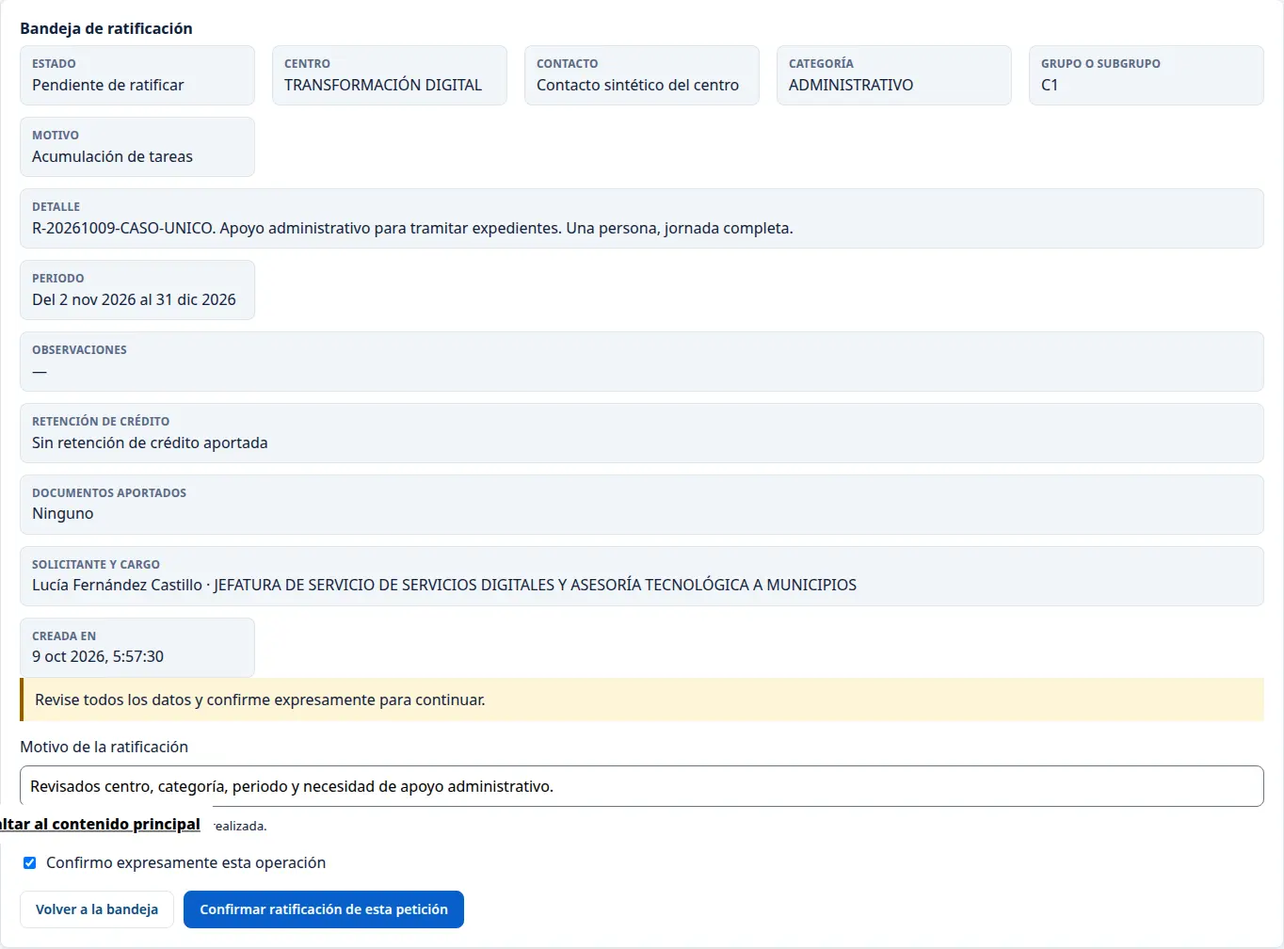
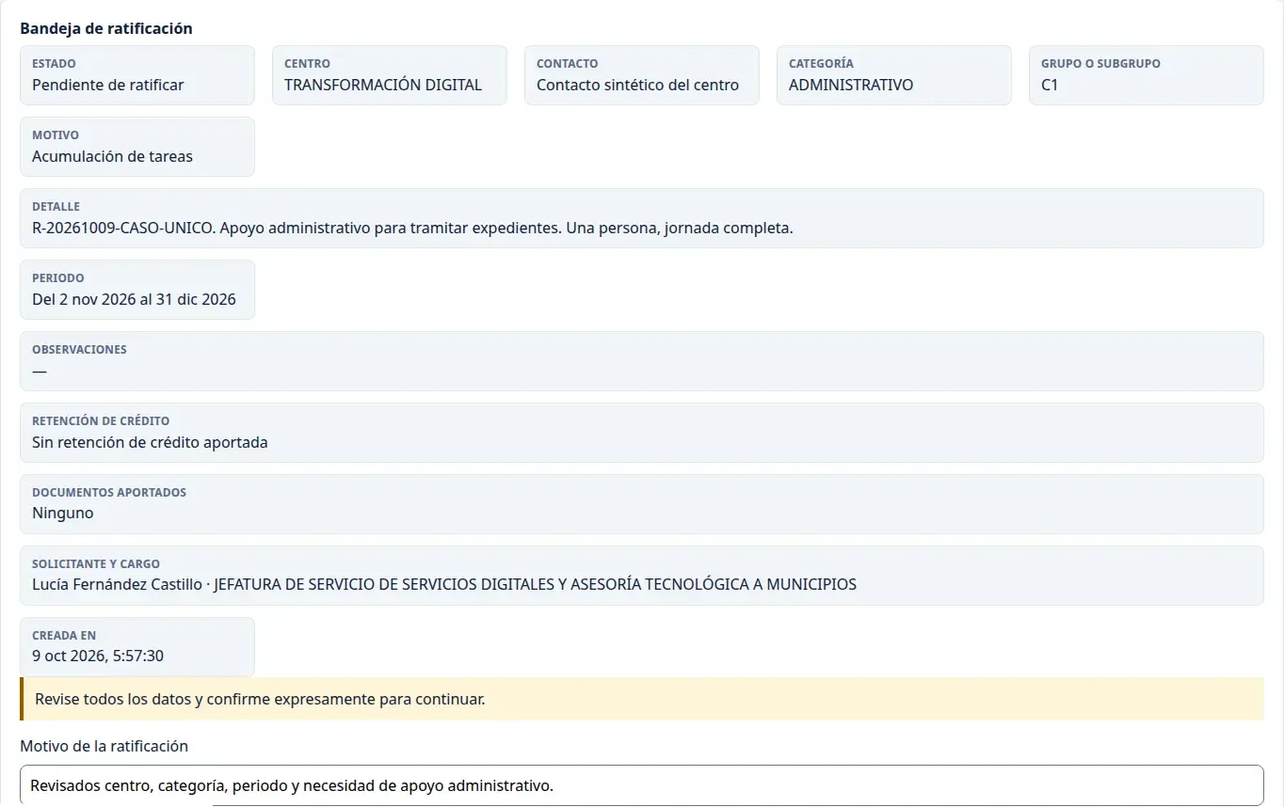
docs: corregir manuales por perfil tras la revisión independiente
Respuesta firme explicada según el catálogo; bandeja de RRHH con
Pendiente de preparación; qué anotar del recibo de alta; documentos PDF y
Word en fase de nombramiento; integrantes de una bolsa; Intervención
alineada; PENDIENTES resumido en lenguaje llano; capturas repetidas en
español, sin el enlace de salto y sin imágenes huérfanas.

diff --git a/docs/manuales/PENDIENTES.md b/docs/manuales/PENDIENTES.md
@@ -2,120 +2,21 @@
 
 ## Comprobación del 9 de octubre de 2026
 
-La petición del centro, la ratificación, el expediente, el llamamiento, el contacto telefónico y la aceptación desde Mi bolsa se recorrieron con la misma persona y expediente.
+La petición del centro, la ratificación, el expediente, el llamamiento, el contacto telefónico y la aceptación desde Mi bolsa se recorrieron con la misma persona y el mismo expediente.
 
 Quedan pendientes:
 
-- Alta propia del aspirante y gestiones de su ficha y preferencias que no se completaron en esta vuelta.
-- Descarga del informe de ese expediente en PDF y Word. La ficha no ofreció esos controles.
+- Alta propia del aspirante y las gestiones de su ficha y sus preferencias.
+- Descarga de los documentos de ese mismo expediente. Las descargas en PDF y Word solo funcionan cuando el expediente está en la fase de nombramiento, y este expediente todavía no ha llegado a ella. Se comprobaron con otro expediente que sí está en esa fase.
 - Firma del informe por el técnico y la jefatura; fiscalización con reparo y conformidad, subsanación y resolución.
 - Incorporación, paso a Personal, cese y regreso a la bolsa de esa persona.
 - Recorrido propio de administración del portal: perfiles, módulos, copias y configuración.
-- Recuperación de los últimos recibos después del reinicio final solicitado al cerrar el acta.
+- Recuperación de los últimos recibos después del reinicio final que se pidió al cerrar el acta.
 
-El informe preparado se mostró como texto provisional al registrarlo. Al volver a abrir la ficha se conservó el registro del informe, pero no se ofrecieron sus descargas. Ese resultado no se presenta como un documento firmado.
+El informe preparado se mostró como texto provisional al registrarlo. Al volver a abrir la ficha se conservó su registro. Ese informe no es un documento firmado.
 
-## Observaciones conservadas del 8 de octubre
+## Comprobaciones anteriores, del 29 y el 30 de septiembre de 2026
 
-Lo siguiente pertenece a la comprobación anterior. No describe por sí solo el estado actual ni sustituye las guías del 9 de octubre.
+Antes de este recorrido se hicieron varias pruebas parciales en copias de ensayo del portal. En ellas se comprobó que cada perfil entraba solo en lo suyo, que la petición del centro llegaba a RRHH y que los recibos se conservaban después de reiniciar el servidor. También se descargaron borradores de un expediente antiguo.
 
-## Clon H6: resultados observados — 30/09/2026
-
-El clon compartido usa la fuente `main@ab875bb8036af59e9b5ac624d6840b8581178ed2`
-y el artefacto aprobado de SHA256
[1 lines of base64/hex data omitted]
-Conserva 41 recibos SQL: las 39 instalaciones anteriores y CT150/CT151.
-Las cuatro instalaciones RPT retenidas están excluidas; sus JSON públicos se
-cotejan con la misma fuente Git. El archivo y la petición de la copia anterior
-se conservan por separado.
-
-Chrome ha registrado una petición nueva, su ratificación por otra identidad y
-el alta de RRHH `2026/CT-000136`, en versión 1. Las respuestas iniciales fueron
-`200`, `200` y `201`. El primer reintento devolvió `200` con el mismo recibo.
-Tras reiniciar la aplicación y PostgreSQL del clon, la consulta, el reintento de
-RRHH y los dos reintentos del centro devolvieron `200`: conservaron referencias,
-fechas, versiones y los siete campos del recibo de alta. La consulta muestra
-una sola entrega de esta petición.
-
-Las ocho capturas reales de 1440 y 390 píxeles se conservan fuera de Git.
-El recorrido registró cero errores JavaScript, cookies, almacenamiento web y
-desbordamiento horizontal. Los 41 recibos SQL mantuvieron la misma huella antes
-y después del recorrido. La recuperación comprobada corresponde a este caso;
-no se atribuye a la petición de la copia anterior.
-
-Este corte acredita el puente de centro a RRHH. El expediente aún debe recorrer
-análisis, informe, fiscalización y los pasos posteriores. No acredita firma,
-envío corporativo ni cierre. Dirección debe confirmar un proceso completo
-antes de publicar su manual. Los campos del recibo y del detalle aún muestran
-referencias técnicas; las operaciones de incorporación del centro no se han
-recorrido y su lectura observada devuelve `404`.
-
-| Recorrido | Resultado observado en H6 | Punto pendiente |
-| --- | --- | --- |
-| Accesos | Las lecturas permitidas devuelven `200` y las denegaciones de los perfiles separados, `403`. RRHH recibe un catálogo de siete módulos que incluye Contratación temporal. | El candidato externo necesita su propio proceso y autoridad. No se sustituye por RRHH ni por Intervención. |
-| Centro → RRHH | Petición v1, ratificación v2 y alta `2026/CT-000136` confirmadas; recibos recuperados tras reiniciar aplicación y PostgreSQL. | Continuar el mismo expediente. Incorporación del centro sin recorrer; su lectura observada devuelve `404`. |
-| Análisis e informe | El expediente nuevo permanece en versión 1. La entrada de Contratación se detiene antes de presentar el formulario. | Los manifiestos web de esta fuente omiten los dos catálogos de textos de plazos, aunque los archivos existen. Sus solicitudes reciben `404`; no se ha registrado análisis ni informe. |
-| Intervención | La entrada responde `200` y la consulta reservada a RRHH se deniega con `403`. La pantalla de Contratación no carga sus controles. | No hay informe jurídico del caso nuevo: favorable, reparo y subsanación no ejecutados. La lectura de la entrada no acredita esos actos. |
-| Llamamiento y respuesta | Se ha comprobado la entrada interna; la consulta de bolsas devuelve `503`. | Falta precisar esa causa y disponer del antecedente fiscalizado. La respuesta del candidato externo sigue pendiente de su propia autoridad. |
-| Propuesta, documentos y firma | Doce descargas por API recuperan los seis borradores históricos, con las mismas huellas a 1440 y 390 píxeles. La pantalla no ofrece sus botones porque falla la carga de textos. | Circuito de firma `503` y seguimiento `404`; incorporación y cierre no ejecutados. Las descargas no acreditan firma ni el proceso completo. |
-| Bolsa y ofertas | La consulta interna de bolsas devuelve `503`; todavía no se ha acreditado su causa. | Publicación, respuesta, avisos, envío masivo, adjudicación y cierre no ejecutados en esta revisión. |
-| Área personal | El recorrido de centro consulta las preferencias propias de RRHH con `200`. Las demás lecturas internas anteriores se conservan en la sección histórica. | No acredita el Área personal del candidato, sus cambios, correo verificado, «Mi bolsa» ni «Mi ficha». El proceso externo sigue pendiente. |
-
-El primer catálogo de cuatro módulos que se anotó durante el diagnóstico
-pertenecía al actor denegado, no a RRHH. Contratación sí figura en el catálogo
-positivo. El fallo de su pantalla corresponde a los textos omitidos del
-manifiesto; no se atribuye a un permiso ni a un registro de módulo ausente.
-
-Las lecturas pueden dejar auditoría de acceso. «Sin actuación de negocio» no
-significa que la base permanezca sin nuevas entradas de auditoría. El sembrador
-es opcional para H6 y no se usa para inventar los antecedentes que faltan.
-
-## Comprobación del 30/09/2026
-
-Se han observado ocho recorridos con Chrome en el clon sintético de
-`main@8fc0b534dbdaa0a5b34d835810c4593ad823780b`, con 38 instalaciones SQL.
-Las capturas reales de escritorio y móvil se conservan fuera de Git para revisión.
-Dirección aún no ha confirmado un proceso completo que permita publicar su manual.
-
-| Recorrido | Resultado observado | Punto pendiente |
-| --- | --- | --- |
-| Accesos | RRHH, centro y ratificador pasan sus comprobaciones positivas y de denegación. Intervención entra al portal. | Completar las comprobaciones de Intervención y disponer del portal externo con su propia autoridad de acceso. |
-| Centro → RRHH | Petición y ratificación registradas por personas distintas, con recibos de versiones 1 y 2. La consulta posterior conserva la petición ratificada. | La entrega a RRHH responde 503: esa operación aún no está declarada en el control de acceso de esta versión. No hay alta confirmada. |
-| Análisis e informe | El cuadro abre y consulta los expedientes con respuesta 200. | No hay expediente nuevo procedente de la entrega. El sembrador oficial se detiene antes de escribir porque faltan centros y categorías de sus casos. No se han ejecutado las actuaciones. |
-| Intervención | La entrada y el formulario de acceso manual se ven en escritorio y móvil. Las consultas de RRHH se deniegan a este perfil. | Faltan casos nuevos en informe jurídico para recorrer fiscalización favorable, reparo y subsanación. |
-| Llamamiento y respuesta | Se han observado las entradas de RRHH y del candidato. | La lista de bolsas responde 503 por una conexión omitida en el preparador del clon. Se corregirá antes de valorar el proceso. El portal externo aún no está habilitado. |
-| Propuesta, documentos y firma | Una propuesta histórica en versión 7 permite descargar los seis borradores. Sus tamaños y huellas coinciden a 1440 y 390 píxeles. | La consulta de seguimiento responde 404 y el circuito de firma 503. No se ha solicitado una firma ni continuado hasta el cierre. |
-| Bolsa y ofertas | El portal interno abre. | La misma conexión omitida impide cargar las bolsas. No se han publicado ofertas ni ejecutado respuestas, avisos o envío masivo. |
-| Área personal | RRHH consulta sus preferencias internas y las recupera sin cambios tras recargar. Correos e imagen responden como lecturas. | Esto no acredita el Área personal del candidato. Faltan su entrada, los cambios confirmados, correo verificado, «Mi bolsa» y «Mi ficha». |
-
-El primer 400 observado en el cuadro era un efecto del transporte del guion;
-Chrome nativo devuelve 200. Tampoco se atribuye al producto el 503 de Bolsa
-causado por el preparador. Los recibos del centro se conservan para recuperar
-la misma petición; no se ha comprobado todavía su recuperación tras reinicio.
-
-La actualización del clon a una fuente posterior se registrará por separado.
-Estos resultados no se atribuyen a otro binario ni a SQL instaladas después.
-
-## Evidencia anterior: 29/09/2026
-
-Revisión del 29/09/2026 sobre `origin/main@3b910a170`. Aún no está acreditado de principio a fin ninguno de los procesos completos pedidos para esta carpeta. Las dos copias locales consultadas contienen expedientes y propuestas de ejemplo, pero no registran firmas de Contratación temporal.
-
-En esta revisión no se abrió Chrome contra una copia con todas las novedades instaladas. La tabla recoge el último paso demostrado en las comprobaciones anteriores.
-
-| Proceso | Hasta dónde llega la evidencia | Qué falta para terminarlo |
-| --- | --- | --- |
-| Acceso de RRHH | Entra al portal interno, recibe una petición ratificada, crea el expediente y recupera el recibo tras reiniciar. | Continuar ese expediente hasta la firma y el cierre con los perfiles fijos aún en curso. |
-| Acceso del centro solicitante | Registra una petición y recupera su recibo tras reiniciar. La petición ya se ha entregado a RRHH en un ejercicio posterior. | Completar el expediente resultante. La adaptación de la entrega al perfil fijo sigue en curso. |
-| Acceso del ratificador | Ratifica la petición con otra identidad y recupera el recibo. La entrega posterior a RRHH también está probada. | Continuar el expediente hasta su cierre con los permisos definitivos. |
-| Acceso de Intervención | Un ejercicio anterior registró una fiscalización favorable y recuperó el recibo tras reiniciar. El perfil fijo nuevo no permite recuperar el justificante completo de esa actuación: una repetición histórica devuelve conflicto sin efectos, el detalle muestra la actuación y la auditoría conserva solo la referencia del recibo. | Demostrar los caminos favorable y de reparo con subsanación dentro de la cadena completa y con las firmas admitidas. Aclarar con RRHH si necesita descargar el justificante de cada actuación ya registrada. |
-| Acceso del candidato y Área personal | Puede entrar y ver «Mi bolsa» con sus participaciones en la presentación sintética. | Terminar la respuesta y los demás trámites propios con las reglas y la identidad definitivas. La separación de procesos por portal sigue en varias solicitudes de cambio abiertas. |
-| Contratación temporal | Los ejercicios de desarrollo alcanzan la propuesta de nombramiento y los seis borradores. Seguimiento y cese también se recorrieron en Chrome en una copia de ensayo, con recuperación tras reiniciar la aplicación y la base de datos. GrxFirma verificó firmas de prueba en la principal. | Unir el flujo desde el centro hasta la firma por el circuito admitido, verificar y custodiar el documento firmado, incorporar, seguir y cerrar el mismo expediente. La firma legal y el envío al portafirmas están pendientes. También faltan los caminos favorable y de reparo completos, sus recibos y la recuperación tras reinicio. Los cambios de perfiles fijos y custodia siguen abiertos. |
-| Bolsa | Hay constitución y orden sintéticos, política de ofertas, publicación y respuesta en ensayos locales; un llamamiento llegó al buzón de pruebas. | Comprobar en un mismo clon y desde el navegador publicación, respuesta, avisos, envío masivo, adjudicación y cierre, con recibos recuperados tras reinicio. Faltan reglas aceptadas por RRHH y acreditar la entrega de correo corporativo. |
-| Área personal: preferencias | «Mis preferencias» se guardó y recuperó en las dos entradas de prueba. | Incorporarlo a un recorrido completo del Área personal, con las demás funciones propias terminadas. |
-| Área personal: correos, imagen, «Mi bolsa» y «Mi ficha» | Correos, imagen y «Mi bolsa» tienen cortes de código y pruebas parciales. La pantalla «Mi ficha» sigue en una solicitud de cambio abierta. | Probar las cuatro funciones juntas en el clon actualizado, desde la entrada hasta la confirmación y recuperación de cada cambio. Completar la ficha del aspirante y su trámite de solicitud. |
-| Administración: reglas vigentes | Se pueden consultar reglas; la apertura de su detalle sigue en una solicitud de cambio abierta. | Comprobar lectura completa y las operaciones de gobierno autorizadas con historia y recibo. |
-| Administración: catálogos, plazos y categorías de la RPT | Los catálogos actuales se consultan. Los plazos configurables están en estudio y ramas; la edición de categorías aún no tiene implementación. | Permitir y comprobar los cambios autorizados, su versión, historia, recibo y recuperación. Las categorías en uso solo podrán deshabilitarse. |
-
-Para retomar un manual, dirección debe confirmar que el proceso correspondiente está terminado. Entonces se recorre con datos sintéticos en un clon de la principal actualizado, se capturan y numeran los controles reales a 1440 píxeles y, cuando importa, a 390 píxeles, y otra persona sigue el manual antes de abrir su solicitud de cambio.
-
-Fuentes de este corte: [estado del proyecto](../../ESTADO_PROYECTO.md), [guía del recorrido centro a RRHH](../../GUIA_RECORRIDO_ALBERTO.md), [lista de comprobación de RRHH](../../PIDEN_RRHH_CHECKLIST.md), [guion de Bolsa](../presentacion/guion_demo_rrhh_2026-09.md), [estado de firma](../../deploy/firma/README.md) y [alcance del expediente](../portal_vec/expediente_contratacion_temporal_rrhh.md).
+Esas pruebas no completaron ningún proceso de principio a fin. Quedaron sin recorrer el análisis y el informe de un expediente nuevo, la fiscalización por Intervención, la respuesta del aspirante, la firma, la incorporación y el cierre, y en Bolsa la publicación de ofertas, los avisos y la adjudicación. El detalle técnico de esas pruebas se conserva en el historial del repositorio.

diff --git a/docs/manuales/responsable_rrhh.md b/docs/manuales/responsable_rrhh.md
@@ -1,6 +1,6 @@
-# RRHH: consultar una petición y su historial
+# RRHH: consultar una petición, su historial y sus documentos
 
-Esta guía recoge consultas comprobadas en el Portal del Empleado el 9 de octubre de 2026. Con el acceso de RRHH utilizado en el recorrido se pudo localizar un expediente, leer su fase, sus datos y las actuaciones registradas. Las imágenes muestran un ejemplo; su número y sus datos pueden cambiar.
+Esta guía recoge consultas comprobadas en el Portal del Empleado el 9 de octubre de 2026. Con el acceso de RRHH se puede localizar un expediente, leer su fase, sus datos y las actuaciones registradas, y descargar sus documentos en PDF y Word cuando el expediente está en la fase de nombramiento. Las imágenes muestran un ejemplo; su número y sus datos pueden cambiar.
 
 ## Abrir la ficha
 
@@ -14,14 +14,40 @@ En **Datos de la petición**, compruebe centro, categoría, grupo, motivo, perí
 
 ## Leer las actuaciones registradas
 
-Baje a **Historial**. Cada entrada muestra la actuación y cuándo se registró. Pulse **Ver detalle técnico** si necesita comprobar la versión y la secuencia completa. En el ejemplo se leen el alta, el análisis, la decisión de cobertura, la asignación y la preparación del informe. La ficha se recuperó después de abrirla de nuevo desde la lista.
+Baje a **Historial**. Cada entrada muestra la actuación y cuándo se registró. Pulse **Ver detalle técnico** si necesita comprobar la versión y la secuencia completa. En el ejemplo se leen el alta, el análisis, la decisión de cobertura, la asignación y el informe jurídico generado. La ficha se recuperó después de abrirla de nuevo desde la lista.
 
-![Historial y secuencia de actuaciones del expediente.](img/rrhh-20261009-historial.webp)
+![Historial del expediente 2026/93001 con sus cinco actuaciones, de la más reciente a la más antigua.](img/rrhh-20261009-historial.webp)
 
 Para regresar, pulse **Volver a la lista**. Si actualiza la página y aparece la lista, busque de nuevo el mismo número antes de seguir.
 
+## Descargar los documentos del expediente
+
+Baje hasta el panel **Documentos generados**, dentro de la misma ficha. Cada documento aparece en su tarjeta con la marca **Borrador sin firmar** y dos botones: **Descargar PDF** y **Descargar Word**. Los archivos llevan el logotipo de la Diputación. El PDF del informe del ejemplo indica en su primera página que es un borrador no firmado ni validado.
+
+La descarga solo funciona cuando el expediente está en la fase **Nombramiento**. En el ejemplo se usó `2026/CT-000127`, que está en esa fase:
+
+1. En **Peticiones de personal temporal**, escriba la referencia en **Buscar** y abra la ficha.
+
+   ![Búsqueda del expediente 2026/CT-000127, en la fase Nombramiento.](img/rrhh-documentos-01-buscar.webp)
+
+2. Compruebe en la cabecera que la fase actual es **Nombramiento**.
+
+   ![Cabecera de la ficha con cinco fases hechas y Nombramiento como fase actual.](img/rrhh-documentos-02-ficha.webp)
+
+3. Si quiere revisar antes el análisis, pulse **Ver todos los datos** en **Datos de la petición**. En el ejemplo, la retención de crédito figura como **Validada**.
+
+   ![Datos ampliados del análisis, con la retención de crédito Validada.](img/rrhh-documentos-03-analisis-rc.webp)
+
+4. En **Documentos generados**, pulse **Descargar PDF** o **Descargar Word** en la tarjeta que necesite. El navegador guarda el archivo según su configuración.
+
+   ![Panel Documentos generados con ocho tarjetas, cada una con Descargar PDF y Descargar Word.](img/rrhh-documentos-04-descarga.webp)
+
+En el ejemplo aparecen ocho documentos: informe definitivo, resolución, diligencia, toma de posesión, notificación, comunicación al centro, contrato laboral de duración determinada y nombramiento de personal funcionario interino.
+
+En un expediente que todavía no ha llegado a **Nombramiento** también se ve la lista, pero la descarga no se completa: la ficha avisa de que no se ha guardado ningún documento. Los documentos de **cese** y de **modificación del nombramiento** solo se pueden descargar después de registrar esa actuación en el expediente.
+
 ## Alcance de este acceso
 
-Este recorrido comprobó la **consulta** de la ficha y del historial. No comprobó una acción propia para **resolver** ni para **firmar** con este acceso. El informe que figuraba en el expediente seguía pendiente de revisión y firma.
+Este recorrido comprobó la **consulta** de la ficha, del historial y de los documentos. No comprobó una acción propia para **resolver** ni para **firmar** con este acceso. Un documento descargado sigue siendo un borrador: no está firmado ni produce efectos.
 
-Si aparece «La consulta de documentos generados no está disponible», conserve el número del expediente y comunique el mensaje a Informática. Esta guía no indica descargas PDF o Word: no se ofrecieron en la ficha comprobada.
+Si el panel de documentos muestra «No se pudieron consultar los borradores publicados», pulse **Reintentar consulta**. Si el mensaje continúa, conserve el número del expediente y comunique el mensaje a Informática.

diff --git a/docs/manuales/tecnico_rrhh.md b/docs/manuales/tecnico_rrhh.md
@@ -38,6 +38,14 @@ Pulse «Bolsas de trabajo» **(4)** en el menú lateral de Inicio. Se abre «Bol
 
 Para volver a Inicio, pulse «Inicio» en el menú lateral o use el botón Atrás del navegador.
 
+## Ver los integrantes de una bolsa
+
+En «Bolsas de trabajo activas», pulse la cifra de la columna «Disponibles» de la bolsa que necesita. Se abre «Candidatos de la bolsa» con la situación «Disponible» ya elegida y la relación ordenada de esas personas. En el ejemplo, ENCARGADO muestra 16 personas disponibles.
+
+![Personas disponibles de la bolsa ENCARGADO, con el recuento por situación y la relación ordenada.](img/rrhh-bolsa-disponibles.webp)
+
+Use «Buscar» para localizar a una persona por nombre o documento y «Situación» para consultar otro estado. Pulse «Filtrar» para aplicar los cambios y «Limpiar» para quitarlos.
+
 ## Abrir la lista general de peticiones · 5
 
 En Inicio, pulse «Ver todas las peticiones» **(5)** en la cabecera de «Lo pendiente». Se abre la lista con búsqueda y los filtros «Fase» y «Mostrar». Cada fila muestra el centro y la categoría por su nombre, además de la fase, el estado y el plazo. El día de la comprobación había 72 peticiones, 46 de ellas en «Solicitud».
@@ -46,14 +54,14 @@ En Inicio, pulse «Ver todas las peticiones» **(5)** en la cabecera de «Lo pen
 
 ## Recibir una petición ratificada del centro
 
-1. Abra [Peticiones de los centros](https://vec.cidonia.cloud/portal-empleado/peticiones-centro/?lang=es&vista=rrhh) con el acceso de RRHH. Busque la petición con estado **Ratificada** y pulse **Revisar**.
+1. Abra [Peticiones de los centros](https://vec.cidonia.cloud/portal-empleado/peticiones-centro/?lang=es&vista=rrhh) con el acceso de RRHH. Las peticiones ratificadas que aún no tienen expediente aparecen con el estado de entrega **Pendiente de preparación**. Localice la suya por la fecha y hora de la columna **Ratificación** y pulse **Revisar**. Las que ya tienen expediente muestran **Expediente creado** y su número.
 2. Compruebe centro, categoría, grupo, motivo, período, número de personas y jornada. Compruebe también si el centro aportó una retención de crédito o documentos. En el ejemplo, el centro pidió una persona de la categoría Administrativo, a jornada completa, y no aportó retención.
 3. Pulse **Crear expediente en RRHH**. En la revisión escriba el número de expediente asignado por el circuito de gestión, marque la confirmación expresa y pulse **Crear expediente en RRHH** una sola vez. Si no dispone de ese número, deténgase.
-4. Guarde el número visible y el recibo. Use **Abrir el expediente** para seguir con el mismo caso. En el ejemplo se creó `2026/93001`.
+4. La pantalla muestra el recibo del alta. Anote dos datos: el **Número visible**, que es el número del expediente, y la **Referencia del recibo**, que sirve para comprobar el alta si algo falla. Use **Abrir el expediente** para seguir con el mismo caso. En el ejemplo se creó `2026/93001`.
 
-![Bandeja de peticiones de los centros. La primera fila espera la revisión de RRHH.](img/rrhh-20261009-centros.webp)
+![Bandeja de peticiones de los centros. La primera fila está Pendiente de preparación; las demás ya tienen expediente.](img/rrhh-20261009-centros.webp)
 
-![Recibo del alta, con número de expediente y fecha de confirmación.](img/rrhh-20261009-recibo-alta.webp)
+![Parte del recibo del alta con el Número visible y la Referencia del recibo.](img/rrhh-20261009-recibo-alta.webp)
 
 ## Registrar el análisis de RRHH
 

diff --git a/docs/manuales/aspirante.md b/docs/manuales/aspirante.md
@@ -10,7 +10,7 @@ Entre en [Mi área personal](https://vec.cidonia.cloud/area-personal/?lang=es) c
 
 ## Responder cuando RRHH registre el contacto
 
-Espere a que aparezca **Llamamiento abierto**. Revise la fecha de **Contacto** y la de **Responder antes de**. Un correo con resultado **Enviado** no confirma que le haya llegado ni que haya una respuesta registrada.
+Espere a que aparezca **Llamamiento abierto**. Revise la fecha de **Contacto** y la de **Responder antes de**. La etiqueta **Respuesta firme** que aparece debajo indica que su respuesta será definitiva en cuanto la envíe: se registra directamente en la bolsa, sin que RRHH tenga que confirmarla. Si en su lugar aparece «RRHH confirmará la respuesta», su respuesta quedará pendiente hasta que RRHH la confirme. Un correo con resultado **Enviado** no confirma que le haya llegado ni que haya una respuesta registrada.
 
 Para aceptar el llamamiento:
 
@@ -18,15 +18,15 @@ Para aceptar el llamamiento:
 2. Pulse **Enviar respuesta** una sola vez.
 3. Espere a que aparezca **Respuesta registrada**.
 
-En el recorrido comprobado, la aceptación no necesitó completar los campos de justificante.
+Para aceptar no hace falta rellenar **Causa**, **Justificante** ni **Referencia del justificante**. Esos campos son para renunciar con causa justificada.
 
-![Recorte del llamamiento abierto: fecha de contacto, opción Acepto y botón Enviar respuesta.](img/aspirante-aceptar.webp)
+![Recorte del llamamiento abierto: fecha de contacto, plazo, Respuesta firme, opción Acepto y botón Enviar respuesta.](img/aspirante-aceptar.webp)
 
 La confirmación muestra **Acepto**, la fecha, **Respuesta firme** y un recibo. Conserve ese recibo para consultar su respuesta. Después de actualizar la página, debe ver la misma confirmación y el mismo recibo.
 
 ![Recorte de la respuesta registrada, con fecha, estado y recibo.](img/aspirante-recibo.webp)
 
-**Respuesta firme** indica que su aceptación quedó registrada. La situación de la bolsa puede seguir mostrando **Disponible** mientras RRHH continúa el trámite.
+Que la respuesta quede registrada no cambia en ese momento su situación en la bolsa: puede seguir viendo **Disponible** mientras RRHH continúa el trámite.
 
 ## Si algo sale mal
 

diff --git a/docs/manuales/centro.md b/docs/manuales/centro.md
@@ -12,11 +12,11 @@ En «Peticiones de su centro» pulse «Nueva petición».
 
 ## 2. Completar la petición
 
-En «Centro y necesidad», elija su centro, el contacto, la categoría, el grupo o subgrupo y el motivo. El ejemplo usa **ADMINISTRATIVO**, **Grupo C1** y **Acumulación de tareas**. Escriba en «Detalle de la necesidad» qué apoyo necesita y para qué. El ejemplo pidió apoyo administrativo para tramitar expedientes durante el periodo indicado.
+En «Centro y necesidad», elija su centro, el contacto, la categoría, el grupo o subgrupo y el motivo. El ejemplo usa **ADMINISTRATIVO**, **Grupo C1** y **Acumulación de tareas**. Escriba en «Detalle de la necesidad» qué apoyo necesita y para qué. En el ejemplo: apoyo administrativo para tramitar los expedientes de subvenciones a municipios del último trimestre, una persona a jornada completa.
 
-Indique las fechas previstas de inicio y fin. Complete «¿Existe retención de crédito?» de acuerdo con los datos de su centro; en el recorrido no se aportó una retención. Revise las observaciones y el apartado de documentación. Pulse «Revisar petición».
+Indique las fechas previstas de inicio y fin. Se escriben como día, mes y año (por ejemplo, 02/11/2026) o se eligen en el calendario. En «Retención de crédito», responda **Sí** o **No** a «¿Existe retención de crédito?». Si marca **Sí**, la pantalla pide el número o referencia, la fecha, el importe exacto y el documento de la retención ya incorporado. En el ejemplo se marcó **No**. Revise las observaciones y el apartado de documentación. Pulse «Revisar petición».
 
-![Formulario cumplimentado. Encuadre de los campos y el botón Revisar petición.](img/centro-formulario.webp)
+![Formulario cumplimentado: centro, categoría, motivo, detalle, fechas, retención de crédito y botón Revisar petición.](img/centro-formulario.webp)
 
 En una pantalla estrecha, los campos se colocan uno debajo de otro:
 

diff --git a/docs/manuales/README.md b/docs/manuales/README.md
@@ -8,8 +8,8 @@ Guías basadas en las acciones comprobadas en la web los días 8 y 9 de octubre 
 | Centro que pide personal | [Petición de personal](centro.md) | Preparar, revisar y presentar una petición; consultar su estado. |
 | Persona que ratifica | [Ratificación](ratificador.md) | Revisar la petición de otra persona y ratificarla. |
 | Técnico de Recursos Humanos | [Tramitación](tecnico_rrhh.md) | Recibir la petición, tramitar el expediente y gestionar el llamamiento. |
-| Responsable de Recursos Humanos | [Consulta del expediente](responsable_rrhh.md) | Revisar los datos y el historial disponibles. |
-| Intervención | [Alcance pendiente](intervencion.md) | Sin un trámite propio completado en este recorrido. |
+| Responsable de Recursos Humanos | [Consulta del expediente](responsable_rrhh.md) | Revisar los datos y el historial; descargar los documentos en PDF y Word en la fase de nombramiento. |
+| Intervención | [Alcance pendiente](intervencion.md) | Sin trámite propio en este recorrido. |
 | Administración del portal y sistemas | [Alcance pendiente](sistemas.md) | Sin un recorrido propio comprobado. |
 
-Las guías con recorrido incluyen solo acciones que funcionaron desde sus pantallas. Las de Intervención y sistemas indican que su recorrido propio está pendiente. La firma, la resolución y los pasos posteriores quedan fuera de las instrucciones actuales. Las incidencias y los recorridos que faltan se recogen en [PENDIENTES.md](PENDIENTES.md).
+Las guías con recorrido incluyen solo acciones que funcionaron desde sus pantallas. Las de Intervención y sistemas indican que su recorrido propio está pendiente. La firma, la resolución y los pasos posteriores quedan fuera de las instrucciones actuales. Los documentos que se descargan son borradores sin firmar. Las incidencias y los recorridos que faltan se recogen en [PENDIENTES.md](PENDIENTES.md).

diff --git a/docs/manuales/ratificador.md b/docs/manuales/ratificador.md
@@ -21,7 +21,9 @@ En el recorrido mostrado, la pantalla decía **Sin retención de crédito aporta
 
 Si los datos coinciden, pulse **Bandeja de ratificación**. Escriba en **Motivo de la ratificación** qué ha revisado. Marque **Confirmo expresamente esta operación** y pulse **Confirmar ratificación de esta petición** una sola vez.
 
-![Revisión final, motivo, casilla y botón de confirmación](img/ratificador-03-confirmar.webp)
+![Datos que se revisan antes de ratificar y campo Motivo de la ratificación](img/ratificador-03-confirmar.webp)
+
+![Casilla de confirmación expresa y botón Confirmar ratificación de esta petición](img/ratificador-03b-confirmar.webp)
 
 La pantalla muestra **Operación registrada** y el estado **Ratificada**. Recursos Humanos continúa desde su bandeja; el centro no tiene que enviar la petición otra vez.
 

diff --git a/docs/manuales/sistemas.md b/docs/manuales/sistemas.md
@@ -1,5 +1,5 @@
 # Administración del portal y sistemas
 
-El recorrido se realizó con los accesos de aspirante, centro, ratificador, Recursos Humanos e Intervención. No se comprobó una pantalla propia de administración para gestionar perfiles, módulos, copias o configuración.
+El recorrido se hizo con los accesos de aspirante, centro, ratificador y Recursos Humanos. Intervención no tuvo un trámite propio en él. Tampoco se comprobó una pantalla propia de administración para gestionar perfiles, módulos, copias o configuración.
 
 Este manual queda pendiente de un recorrido con ese perfil. Su estado se recoge en [los recorridos pendientes](PENDIENTES.md).

diff --git a/docs/manuales/intervencion.md b/docs/manuales/intervencion.md
@@ -1,5 +1,5 @@
 # Intervención
 
-El recorrido comprobado se detuvo en el informe previo a la firma. No se completó una pantalla propia de Intervención para fiscalizar el expediente, registrar un reparo o dar conformidad.
+El recorrido comprobado se detuvo en el informe previo a la firma. Intervención no tuvo un trámite propio en él: no se fiscalizó el expediente ni se registró un reparo o una conformidad.
 
 Este manual queda pendiente de esa comprobación. Su estado se recoge en [los recorridos pendientes](PENDIENTES.md).
